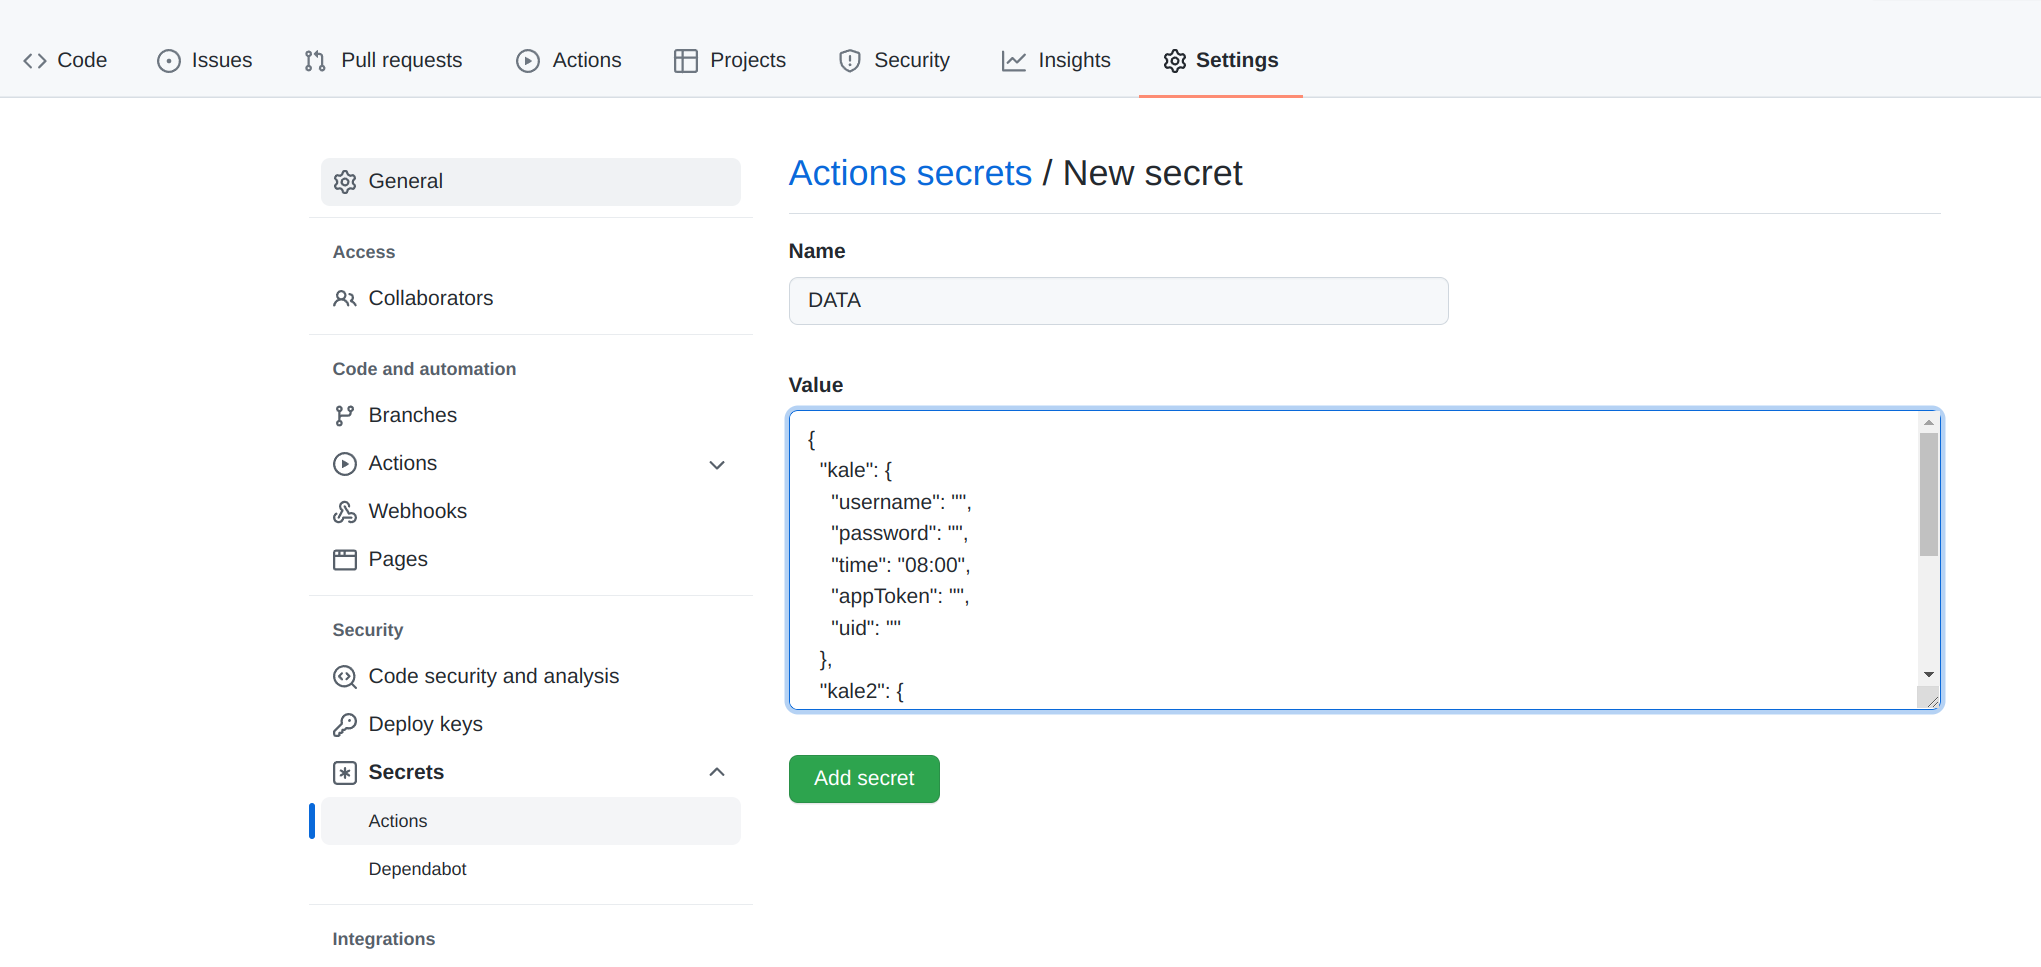
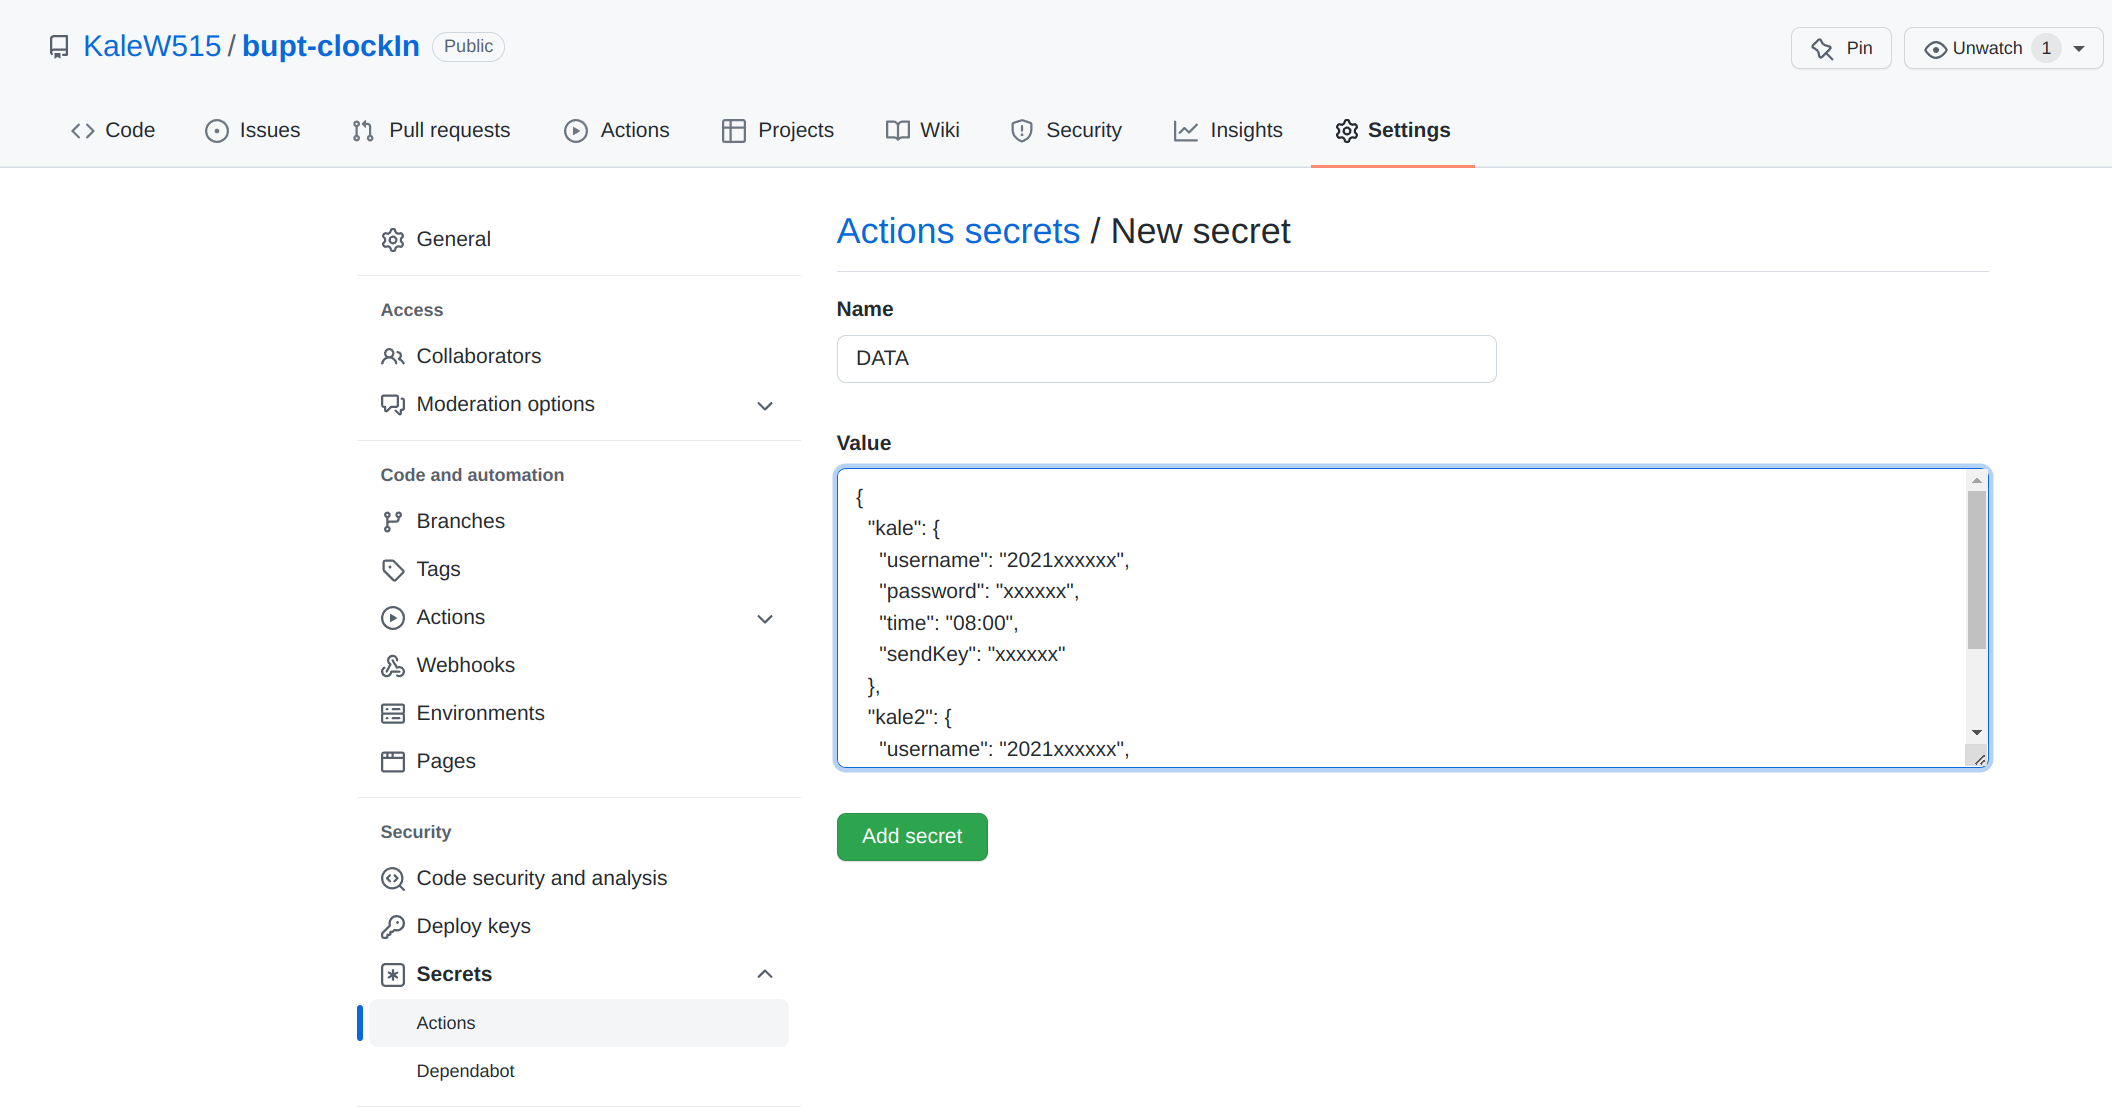
modify readme

diff --git a/README.md b/README.md
@@ -1,9 +1,17 @@
 # bupt-clockIn
 北邮疫情自动打卡，支持每日定时打卡，多人打卡，微信推送打卡状态，白嫖github action支持
 
+
 如果帮到你了就点个:star:吧～
 
 **3月31日更新，由于切换到统一登录所造成的打卡失效问题已经修复**
+
+**4月3日更新，支持Server酱微信推送，配置更简单**
+
+- [x] 定时打卡
+- [x] 多人打卡
+- [x] 微信推送（server酱、WxPusher）
+- [x] github action
 
 ## 1. Framework
 
@@ -12,7 +20,8 @@
 │   ├── clockIn_action.py     // github action打卡脚本
 │   ├── clockIn.py            // 打卡脚本，只会执行一次，需要配合类似cron等具有支持定时功能的服务实现每日打卡
 │   ├── clockIn_timing.py     // 无需定时服务支持，支持每日打卡
-│   └── config.json           // 配置文件
+│   ├── config.json           // 配置文件
+│   └── req_model.py          // 请求模型
 ├── docker-compose.yml        // docker compose配置
 ├── img
 ├── LICENSE
@@ -37,7 +46,8 @@
     "password": "",
     "time": "08:00",
     "appToken": "",
-    "uid": ""
+    "uid": "",
+    "sendKey": ""
   }
 }
 ```
@@ -48,7 +58,7 @@
 
 #### 多人打卡
 
-多人打卡只需要仿照如下配置写即可，如果只需要单用户打卡需要删去多余用户
+多人打卡只需要仿照如下配置写即可
 
 ```json
  {
@@ -57,7 +67,8 @@
     "password": "",
     "time": "08:00",
     "appToken": "AT_",
-    "uid": "UID_"
+    "uid": "UID_",
+    "sendKey": ""
   },
   "kale2": {
     "username": "",
@@ -71,17 +82,36 @@
 
 #### 微信推送
 
-如果不需要微信推送服务，则可以忽略该节。
+如果不需要微信推送服务，则可以忽略该节，相关配置中的字段可以为空。项目支持Server酱推送以及WxPusher推送，推荐使用Server酱进行推送，配置非常简单，项目也不会移除对WxPusher的支持。
 
-本项目的微信推送用到了[WxPusher](https://github.com/wxpusher/wxpusher-client)，微信推送需要用到`config.json`配置文件中的`appToken`和`uid`字段。
+##### Server酱
 
-1. 根据 [WxPusher](https://wxpusher.zjiecode.com/docs/#/)的文档首先注册并且创建应用，注册时会提示`appToken`，记录到`config.json`的`appToken`字段中
+1. 点击进入[Server酱](https://sct.ftqq.com/)，微信扫码登录
 
-2. 创建完成后扫码关注应用，根据文档说明拿到自己的`uid`填到`config.json`中的`uid`字段中
+2. 登录成功后复制`SendKey`，将`SendKey`记录到`config.json`中的`sendKey`字段
 
-3. 微信推送服务配置完成
+3. 配置完成
 
    例如：
+
+   ```json
+   {
+     "username": "2021xxxxxx",
+     "password": "xxxxxxxxxx",
+     "time": "09:30",
+     "sendKey": "xxxxx"
+   }
+   ```
+
+##### ~~WxPusher~~
+
+1. ~~根据 [WxPusher](https://wxpusher.zjiecode.com/docs/#/)的文档首先注册并且创建应用，注册时会提示`appToken`，记录到`config.json`的`appToken`字段中~~
+
+2. ~~创建完成后扫码关注应用，根据文档说明拿到自己的`uid`填到`config.json`中的`uid`字段中~~
+
+3. ~~微信推送服务配置完成~~
+
+   ~~例如：~~
 
    ```json
    {
@@ -99,13 +129,13 @@
 
 1. Fork本仓库，然后进入自己的仓库
 
-2. 准备自己的配置，可以将项目clone下来编辑`config.json`文件，也可以直接在网页编辑，如果熟悉json结构，也可以自己在本地编辑。填好`username`以及`password`，如果需要微信推送，则根据上述微信推送一节中描述填上`appToken`以及`uid`，如果不需要则可以空着，编辑完成后复制全部内容，**此种打卡方式不依赖config.json里规定的内容，所以config.json文件里的内容无需修改，而只与粘贴到github secret的信息相关**
+2. 准备自己的配置，可以将项目clone下来编辑`config.json`文件，也可以直接在网页编辑，如果熟悉json结构，也可以自己在本地编辑。填好`username`以及`password`，如果需要微信推送，则根据上述微信推送一节中描述，如果是Server酱则填上`sendKey`，如果是WxPusher则填上`appToken`以及`uid`，如果不需要则可以空着，编辑完成后复制全部内容，**此种打卡方式不依赖config.json里规定的内容，所以config.json文件里的内容无需修改，而只与粘贴到github secret的信息相关**
 
 3. 点击自己仓库右上角的settings，点击左边的Secrets，再点击Actions，选择右上角的New repository secret，如下图，新建一个secret，Name为DATA，在Value里粘贴刚刚复制的配置
 
    ![1](img/1.png)
 
-4. 设置好环境变量后点击你的仓库上方的Actions选项，第一次打开需要点击`I understand...`按钮，确认在Fork的仓库上启用GitHub Actions
+4. 设置好环境变量后点击你的仓库上方的Actions选项，第一次打开可能需要点击`I understand...`按钮，确认在Fork的仓库上启用GitHub Actions
 5. 任意发起一次commit，可以参考以下步骤
    - 项目默认的打卡时间是每天的00:01，由于github action的原因，实际打卡时间可能会延后几十分钟，如果想要更改这个时间，可以更改仓库的`.github/workflows/main.yml`文件，如下图，更改`cron`的前两个字段，项目默认为`01 16`，即代表每天的16:01，由于中国在东八区，所以会加上8个小时，也就是每天的00:01，可以根据自己的需要进行更改，更改完别忘记commit![4](img/4.png)
    - 如果不需要更改打卡时间，可以修改项目的`README.md`文件，如下图，点击`README.md`文件，然后点击右上角的:pen:![3](img/3.png)
